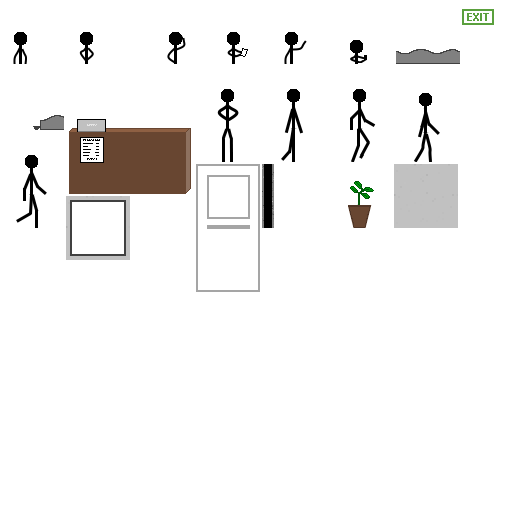
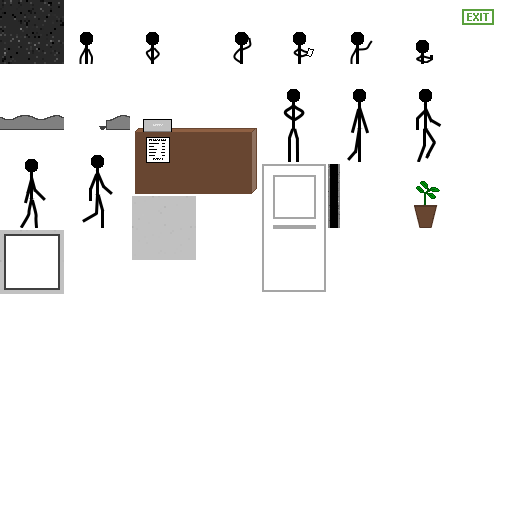
Added asphalt.

diff --git a/GMTK2024.Shared/Background.cs b/GMTK2024.Shared/Background.cs
@@ -20,6 +20,7 @@ public class Background : IDrawable
 	private readonly Texture2DRegion m_outerWall;
 	private readonly Texture2DRegion m_ceilingCorner;
 	private readonly Texture2DRegion m_window;
+	private readonly Texture2DRegion m_asphalt;
 
 	private readonly List<Texture2DRegion> m_cashierFrames;
 	private int m_currentCashierFrame;
@@ -41,6 +42,7 @@ public class Background : IDrawable
 		m_outerWall = m_atlas.GetRegion( "outer_wall" );
 		m_ceilingCorner = m_atlas.GetRegion( "ceiling_corner" );
 		m_window = m_atlas.GetRegion( "window" );
+		m_asphalt = m_atlas.GetRegion( "asphalt" );
 
 		m_cashierFrames = m_atlas.Where( r => r.Name.StartsWith(CASHIER_PREFIX  ) )
 			.OrderBy( r => int.Parse( r.Name[ CASHIER_PREFIX.Length.. ] ) )
@@ -81,6 +83,13 @@ public class Background : IDrawable
 		// corners
 		batch.Draw( m_ceilingCorner, Globals.TileToWorld( Globals.TILE_LEFT, Globals.TILE_TOP - 1 ), isNight ? new( 50, 50, 50 ) : Color.White, 0, Vector2.Zero, Vector2.One, SpriteEffects.None, 0 );
 		batch.Draw( m_ceilingCorner, Globals.TileToWorld( Globals.TILE_RIGHT - 1, Globals.TILE_TOP - 1 ), isNight ? new( 50, 50, 50 ) : Color.White, 0, Vector2.Zero, Vector2.One, SpriteEffects.FlipHorizontally, 0 );
+
+		// asphalt
+		for( int y = Globals.TILE_BOTTOM; y <= 0; ++y )
+		{
+			batch.Draw( m_asphalt, Globals.TileToWorld( Globals.TILE_LEFT, y ), isNight ? new( 50, 50, 50 ) : Color.White );
+			batch.Draw( m_asphalt, Globals.TileToWorld( Globals.TILE_RIGHT - 1, y ), isNight ? new( 50, 50, 50 ) : Color.White );
+		}
 
 		// background walls
 		for( int y = 0; y < Globals.TILE_TOP - 1; ++y )
